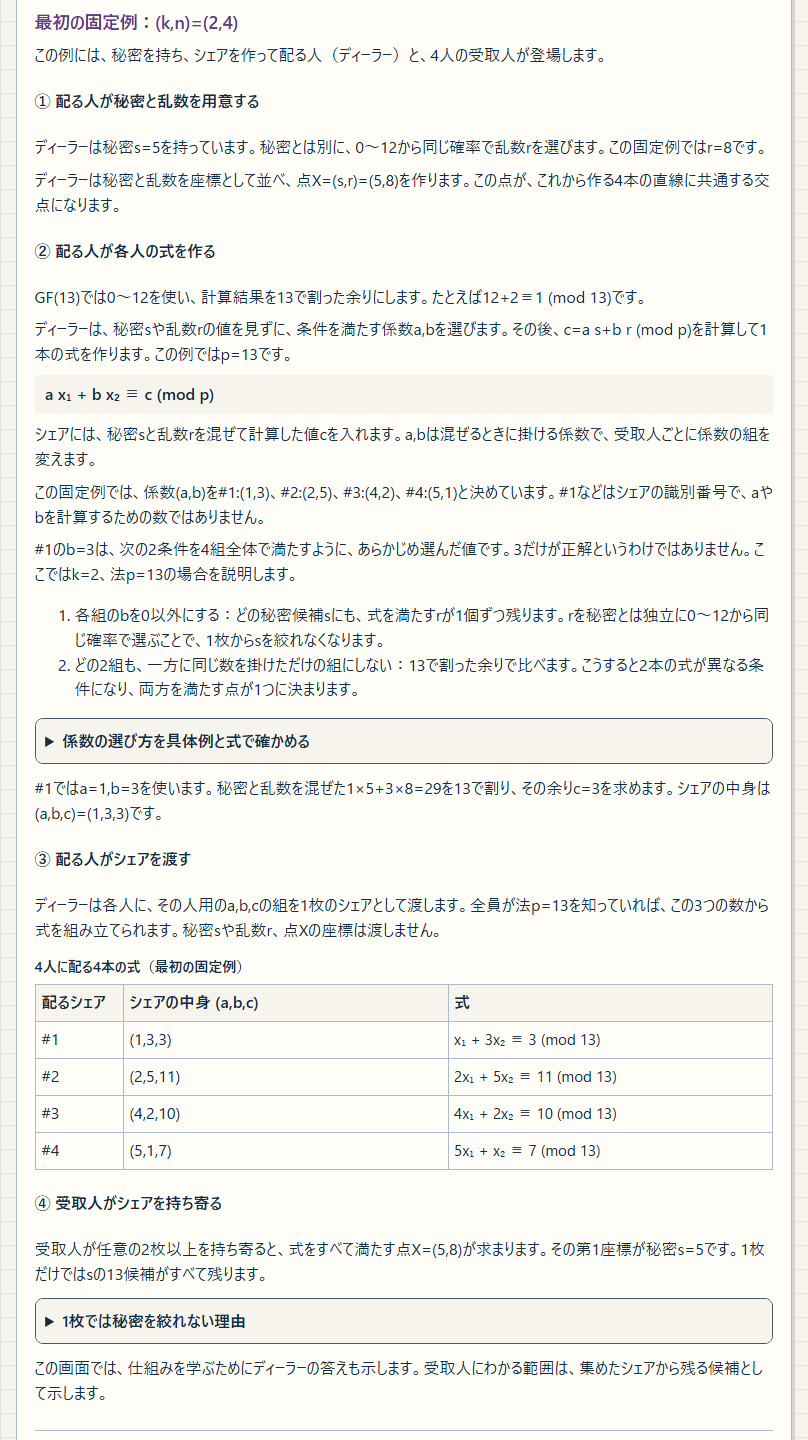
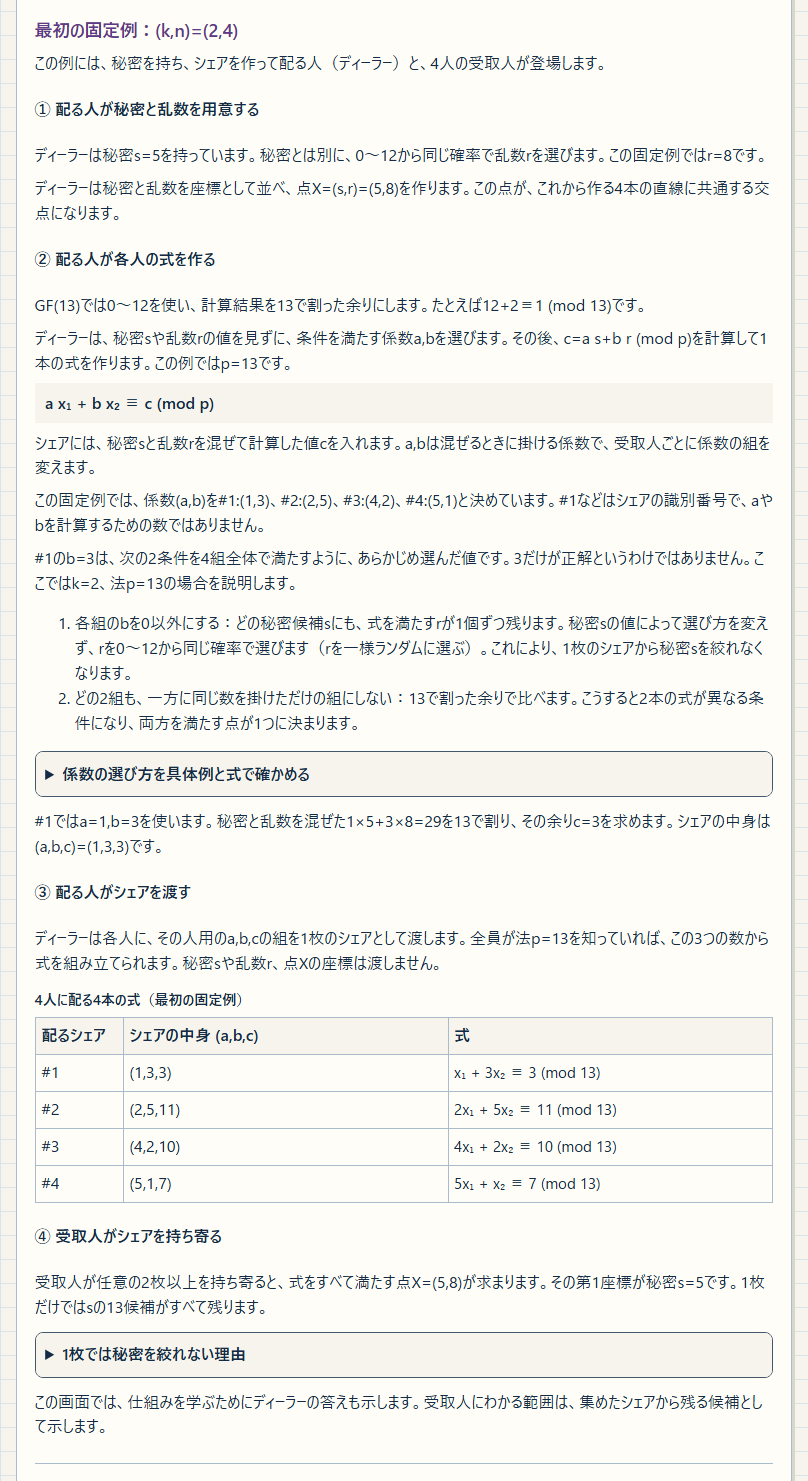
乱数rの選び方を平易に説明して一様ランダムを補足

diff --git a/messages.js b/messages.js
@@ -8,7 +8,7 @@
     ja: {
       primerCoefficientOrigin: "この固定例では、係数(a,b)を#1:(1,3)、#2:(2,5)、#3:(4,2)、#4:(5,1)と決めています。#1などはシェアの識別番号で、aやbを計算するための数ではありません。",
       primerCoefficientChoice: "#1のb=3は、次の2条件を4組全体で満たすように、あらかじめ選んだ値です。3だけが正解というわけではありません。ここではk=2、法p=13の場合を説明します。",
-      primerCoefficientPrivacy: "各組のbを0以外にする：どの秘密候補sにも、式を満たすrが1個ずつ残ります。rを秘密とは独立に0〜12から同じ確率で選ぶことで、1枚からsを絞れなくなります。",
+      primerCoefficientPrivacy: "各組のbを0以外にする：どの秘密候補sにも、式を満たすrが1個ずつ残ります。秘密sの値によって選び方を変えず、rを0〜12から同じ確率で選びます（rを一様ランダムに選ぶ）。これにより、1枚のシェアから秘密sを絞れなくなります。",
       primerCoefficientRecovery: "どの2組も、一方に同じ数を掛けただけの組にしない：13で割った余りで比べます。こうすると2本の式が異なる条件になり、両方を満たす点が1つに決まります。",
       primerCoefficientDetails: "係数の選び方を具体例と式で確かめる",
       primerCoefficientReject: "たとえば#1の(1,3)に対し、次の組に(2,6)を選ぶと2倍になってしまいます。X=(5,8)から右辺を計算するとc=6で、式は2x₁+6x₂≡6 (mod "
@@ -734,8 +734,9 @@
         + "identify shares; they are not inputs used to calculate a or b.",
       primerCoefficientChoice: "For #1, b=3 is a preselected value that lets the four pairs satisfy both conditions below. It is not the only "
         + "possible choice. These conditions describe k=2 with modulus p=13.",
-      primerCoefficientPrivacy: "Keep b nonzero in every pair: each possible secret s has exactly one r satisfying the equation. Choosing r "
-        + "independently of the secret, with equal probability over 0–12, prevents one share from narrowing down s.",
+      primerCoefficientPrivacy: "Keep b nonzero in every pair: each possible secret s has exactly one r satisfying the equation. "
+        + "Choose r from 0–12 with equal probability, without changing how you choose it based on the value of secret s "
+        + "(choose r uniformly at random). This prevents one share from narrowing down the secret s.",
       primerCoefficientRecovery: "Keep every two pairs from being multiples of each other: compare the results modulo 13. The two equations then"
         + " impose independent conditions, so exactly one point satisfies both.",
       primerCoefficientDetails: "Check coefficient choices with examples and a formula",

diff --git a/index.html b/index.html
@@ -106,7 +106,7 @@
           <p data-i18n="primerCoefficientOrigin">この固定例では、係数(a,b)を#1:(1,3)、#2:(2,5)、#3:(4,2)、#4:(5,1)と決めています。#1などはシェアの識別番号で、aやbを計算するための数ではありません。</p>
           <p data-i18n="primerCoefficientChoice">#1のb=3は、次の2条件を4組全体で満たすように、あらかじめ選んだ値です。3だけが正解というわけではありません。ここではk=2、法p=13の場合を説明します。</p>
           <ol>
-            <li data-i18n="primerCoefficientPrivacy">各組のbを0以外にする：どの秘密候補sにも、式を満たすrが1個ずつ残ります。rを秘密とは独立に0〜12から同じ確率で選ぶことで、1枚からsを絞れなくなります。</li>
+            <li data-i18n="primerCoefficientPrivacy">各組のbを0以外にする：どの秘密候補sにも、式を満たすrが1個ずつ残ります。秘密sの値によって選び方を変えず、rを0〜12から同じ確率で選びます（rを一様ランダムに選ぶ）。これにより、1枚のシェアから秘密sを絞れなくなります。</li>
             <li data-i18n="primerCoefficientRecovery">どの2組も、一方に同じ数を掛けただけの組にしない：13で割った余りで比べます。こうすると2本の式が異なる条件になり、両方を満たす点が1つに決まります。</li>
           </ol>
           <details id="primer-coefficients">

diff --git a/README.md b/README.md
@@ -129,7 +129,7 @@ nは配るシェアの総数、kは復元に必要な最小枚数です。正し
 画面にはディーラーの答えも表示しますが、候補数は、集めたシェアと生成条件だけからわかる範囲を数えています。
 
 係数(a,b)の固定値は、#1:(1,3)、#2:(2,5)、#3:(4,2)、#4:(5,1)です。#番号は識別用で、aやbを求める計算には使いません。
-k=2では、各bが0以外で、どの2組もmod 13で互いの倍数にならないように選びます。独立で一様なrと合わせて、1枚で秘密を絞れず、2枚で点が決まる条件です。
+k=2では、各bが0以外で、どの2組もmod 13で互いの倍数にならないように選びます。秘密sの値によって選び方を変えず、rを0〜12から同じ確率で選びます（rを一様ランダムに選ぶ）。この選び方と係数の条件を合わせると、1枚で秘密を絞れず、2枚で点が決まります。
 「係数の選び方を具体例と式で確かめる」では、#1を2倍した(2,6)が新しい条件を増やさない理由と、実際の#2=(2,5)を使う計算を説明します。
 係数は秘密や乱数の値に依存させずに決め、固定・公開・再利用できます。乱数rは分け直すたびに独立かつ一様に選び直します。
 同じ折りたたみで、条件に合う候補から選ぶ「乱数＋検査」と、k=2で(a,b)=(1,i)を使うヴァンデルモンドも紹介します。

diff --git a/README.en.md b/README.en.md
@@ -96,7 +96,7 @@ Accordion headers and expanded content have distinct backgrounds and borders tha
 Although the page also shows the dealer’s answer, candidate counts describe what follows from only the collected shares and known generation rules.
 
 The fixed coefficient pairs are #1:(1,3), #2:(2,5), #3:(4,2), and #4:(5,1). The # labels identify shares and are not used to calculate a or b.
-For k=2, every b must be nonzero and no two pairs may be multiples modulo 13. Together with independent, uniform r, these conditions protect s with one share and determine the point with two.
+For k=2, every b must be nonzero and no two pairs may be multiples modulo 13. Choose r from 0–12 with equal probability, without changing how you choose it based on the value of secret s (choose r uniformly at random). Combined with the coefficient conditions, this protects s with one share and determines the point with two.
 “Check coefficient choices with examples and a formula” explains why twice #1, (2,6), adds no new constraint and shows the calculation using the actual #2=(2,5).
 Coefficients are chosen independently of secret and random-coordinate values; they may be fixed, public and reused. Each new sharing needs a fresh, independent, uniform r.
 The same accordion introduces random selection from eligible candidates and the Vandermonde rule (a,b)=(1,i) for k=2.
